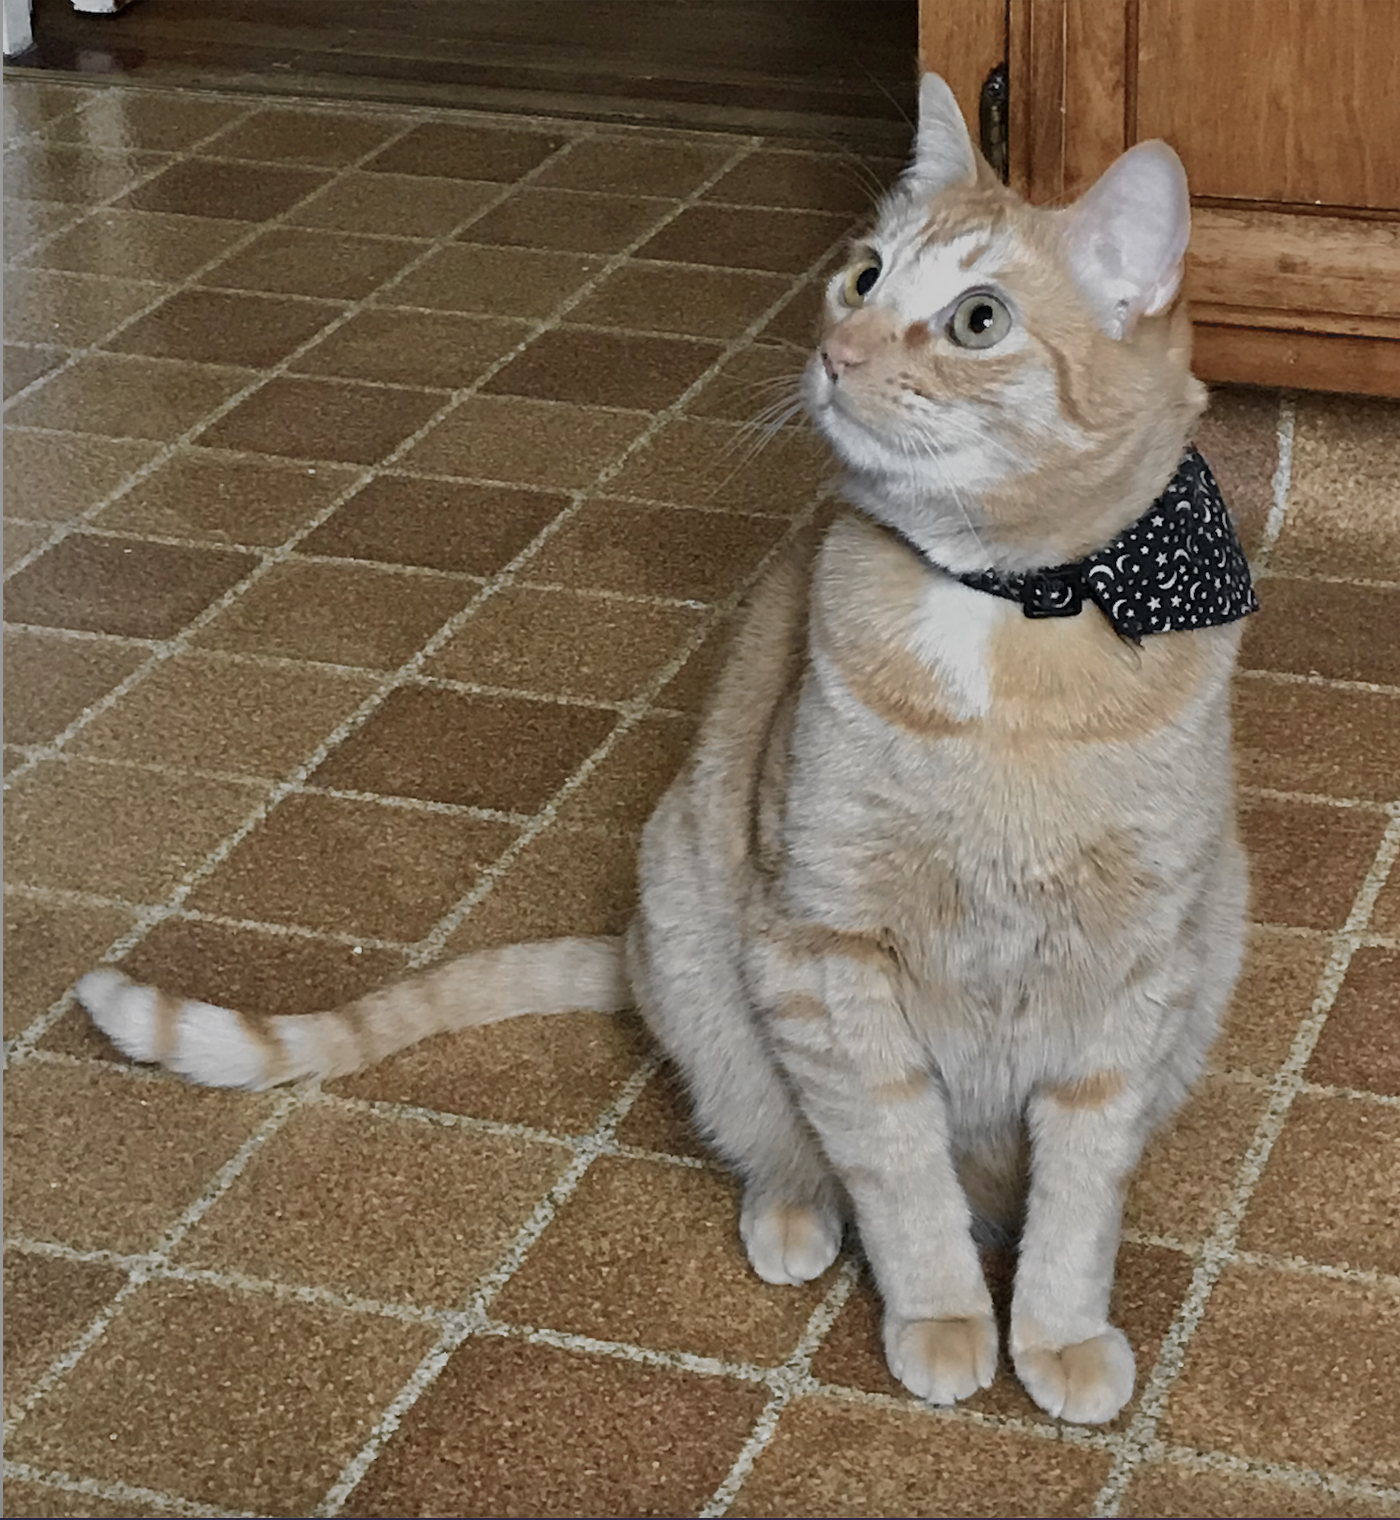
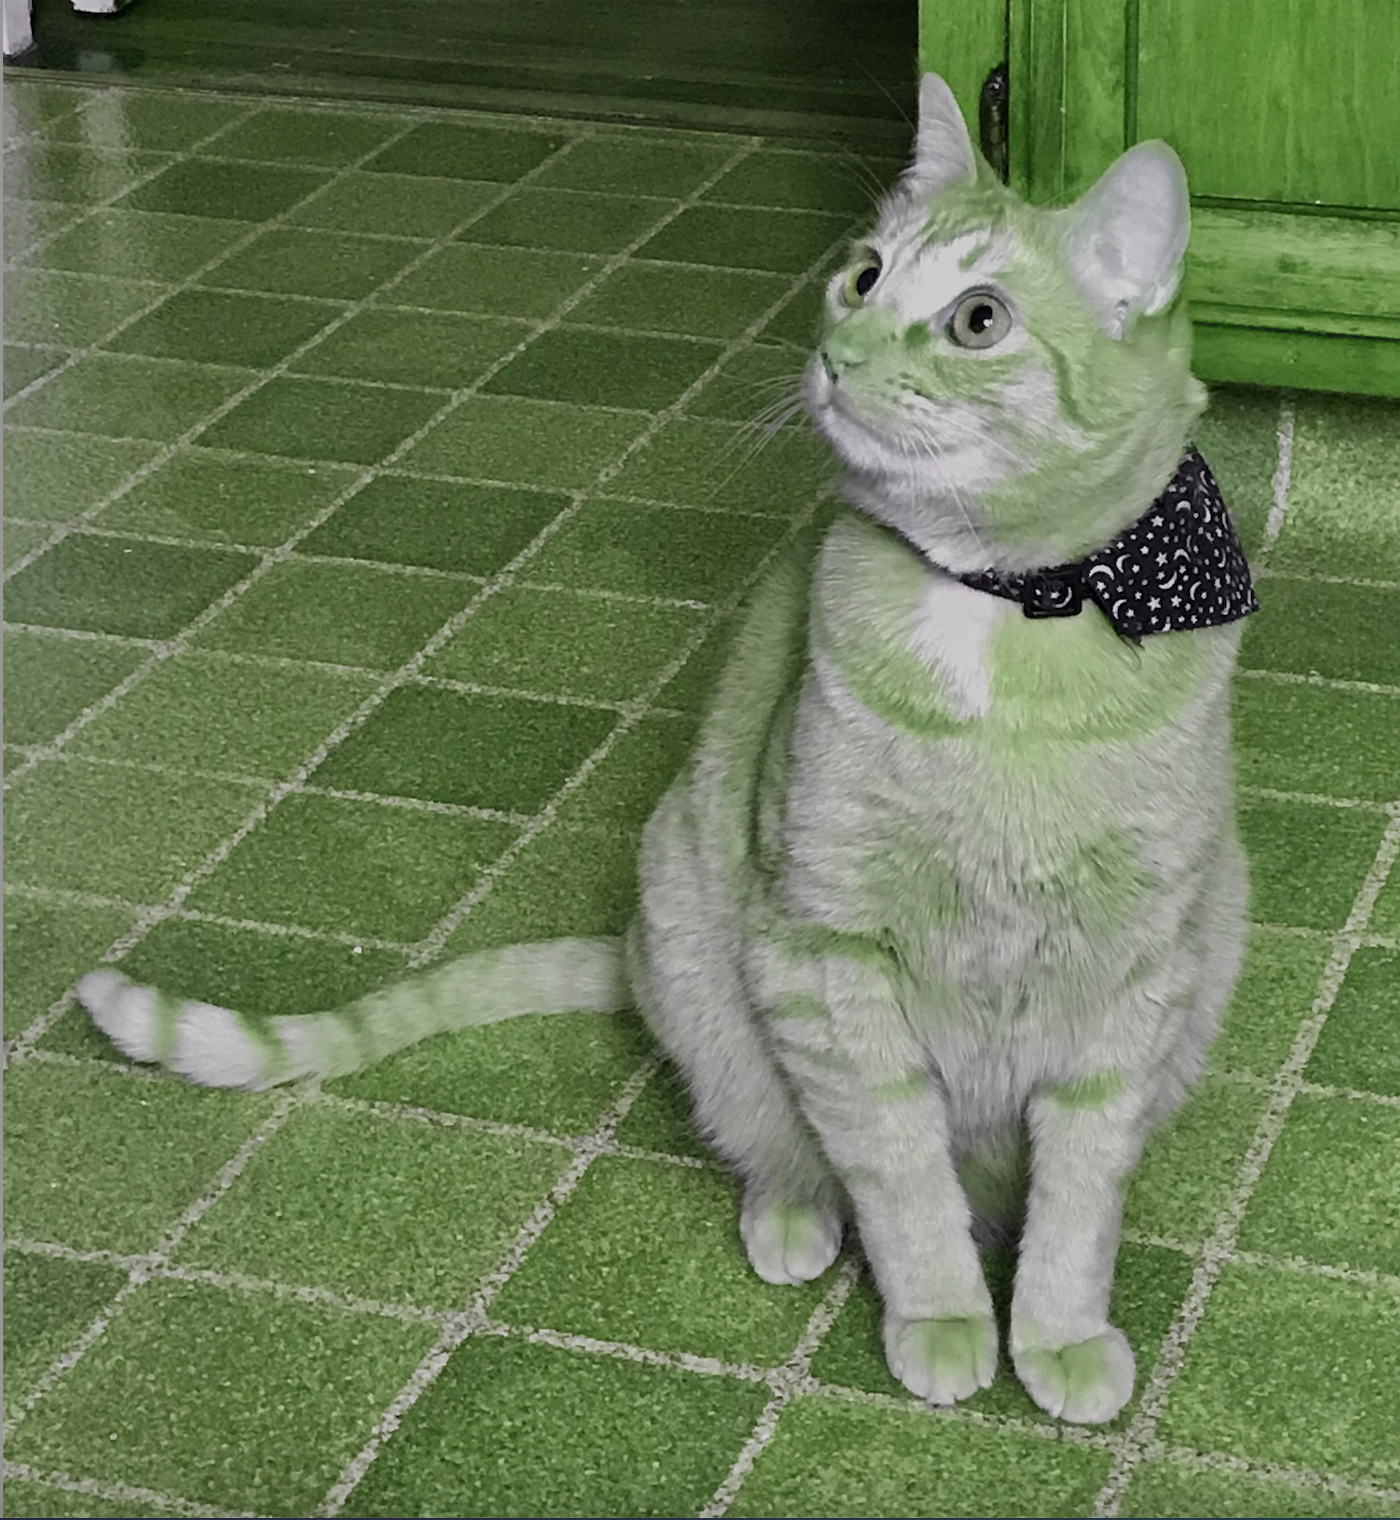
sepia and alien filters work11111

diff --git a/pixly-backend/helpers.py b/pixly-backend/helpers.py
@@ -1,5 +1,6 @@
 import os
 import boto3
+import math
 from config import S3_KEY, S3_SECRET, S3_LOCATION, S3_BUCKET
 from PIL import Image, ImageOps
 from models import db, Pixly
@@ -79,10 +80,88 @@ def convert_to_black_and_white(imagePath):
     greyscale_image = image.convert('L')
     greyscale_image.save(imagePath)
 
-    # link = upload_backend_file_to_s3(imagePath, S3_BUCKET) 
-    # os.remove(imagePath)
-    # return str(link)
+#############################################################################
+# SEPIA
+# Credit to: https://www.codementor.io/@isaib.cicourel/intermediate-image-filters-mj6y7abx4
+# Create a new image with the given size
+def create_image(i, j):
+    image = Image.new("RGB", (i, j), "white")
+    return image
 
 
+# Get the pixel from the given image
+def get_pixel(image, i, j):
+    # Inside image bounds?
+    width, height = image.size
+    if i > width or j > height:
+        return None
+
+    # Get Pixel
+    pixel = image.getpixel((i, j))
+    return pixel
 
 
+# Limit maximum value to 255
+def get_max(value):
+    if value > 255:
+        return 255
+
+    return int(value)
+
+# Sepia is a filter based on exagerating red, yellow and brown tones
+# This implementation exagerates mainly yellow with a little brown
+def get_sepia_pixel(red, green, blue, alpha):
+    # Filter type
+    value = 0
+
+    # This is a really popular implementation
+    tRed = get_max((0.759 * red) + (0.398 * green) + (0.194 * blue))
+    tGreen = get_max((0.676 * red) + (0.354 * green) + (0.173 * blue))
+    tBlue = get_max((0.524 * red) + (0.277 * green) + (0.136 * blue))
+
+    if value == 1:
+        tRed = get_max((0.759 * red) + (0.398 * green) + (0.194 * blue))
+        tGreen = get_max((0.524 * red) + (0.277 * green) + (0.136 * blue))
+        tBlue = get_max((0.676 * red) + (0.354 * green) + (0.173 * blue))
+    
+    if value == 2:
+        tRed = get_max((0.676 * red) + (0.354 * green) + (0.173 * blue))
+        tGreen = get_max((0.524 * red) + (0.277 * green) + (0.136 * blue))
+        tBlue = get_max((0.524 * red) + (0.277 * green) + (0.136 * blue))
+        
+
+    # Return sepia color
+    return tRed, tGreen, tBlue, alpha
+
+# Convert an image to sepia
+def convert_sepia(imagePath):
+    image = Image.open(imagePath).convert("RGB")
+
+    # Get size
+    width, height = image.size
+
+    # Create new Image and a Pixel Map
+    new = create_image(width, height)
+    pixels = new.load()
+
+    # Convert each pixel to sepia
+    for i in range(0, width, 1):
+        for j in range(0, height, 1):
+            p = get_pixel(image, i, j)
+            pixels[i, j] = get_sepia_pixel(p[0], p[1], p[2], 255)
+
+    # Save new image
+    new.save(imagePath)
+
+###########################################################################
+
+# COLOR MERGE
+
+def convert_to_color_merge(imagePath):
+    image = Image.open(imagePath)
+    print(image, "IMAGE FROM COLOR MERGE")
+    image2 = Image.open(imagePath).convert("RGB")
+    print(image2, "IMAGE2 FROM COLOR MER")
+    red, green, blue = image2.split()
+    new_image = Image.merge("RGB", (green, red, blue))
+    new_image.save(imagePath)
